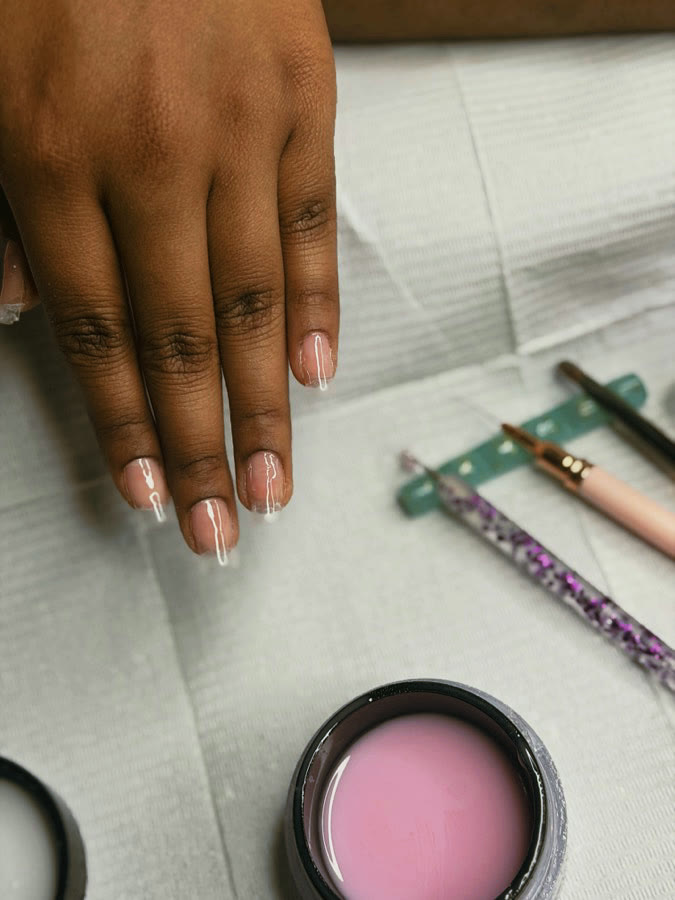
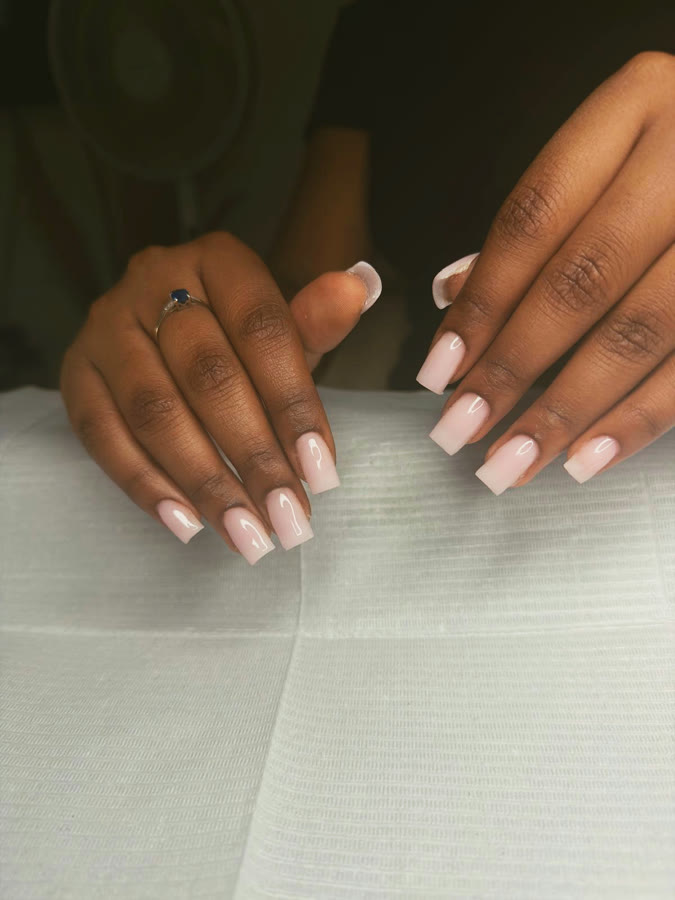
Avant/Après: ajoute le vrai résultat final, retag l'étape gel
- Étape "Résultat final" (IMG_3850) retaguée "Avant pose gel" et
  ajout d'une 5e étape avec le vrai résultat final (IMG-20260903-WA0032)
- Galerie: remplace la photo du pot de gel (IMG_3850) par le
  résultat final deux mains, étalonné au filtre de la galerie
- Grille Avant/Après passée à 5 colonnes (3 puis 2 en responsive)

diff --git a/content/site.ts b/content/site.ts
@@ -70,7 +70,7 @@ export const gallery = [
     src: "/assets/gallery-1.jpg",
     alt: "Pose gel nude avec nail art floral et liseré rouge",
   },
-  { src: "/assets/gallery-2.jpg", alt: "Pose gel nude glossy, finition naturelle" },
+  { src: "/assets/gallery-2.jpg", alt: "Pose gel nude glossy sur ongles longs carrés, finition naturelle" },
   { src: "/assets/gallery-4.jpg", alt: "Pose gel french manucure classique" },
   { src: "/assets/gallery-5.jpg", alt: "Pose gel colorée avec nail art mixte" },
 ];
@@ -162,8 +162,13 @@ export const beforeAfter = {
     },
     {
       src: "/assets/etape-4.jpg",
+      tag: "Avant pose gel",
+      alt: "Capsules sculptées et mises en forme, avant la pose du gel",
+    },
+    {
+      src: "/assets/etape-5.jpg",
       tag: "Résultat final",
-      alt: "Résultat final : pose gel nude glossy, finition naturelle",
+      alt: "Résultat final : pose gel nude glossy sur les deux mains, finition naturelle",
     },
   ],
   caption: "Pose gel nude & naturel — de l'ongle naturel au résultat final, étape par étape.",

diff --git a/app/globals.css b/app/globals.css
@@ -432,7 +432,7 @@ section { padding: clamp(3.5rem, 8vw, 7rem) clamp(1.5rem, 6vw, 5rem); }
 
 /* ---------- Before / After ---------- */
 .ba { background: var(--card); }
-.ba-frame { display: grid; grid-template-columns: repeat(4, 1fr); gap: 1rem; }
+.ba-frame { display: grid; grid-template-columns: repeat(5, 1fr); gap: 0.9rem; }
 .ba-step {
   position: relative; aspect-ratio: 3 / 4;
   border-radius: 20px; overflow: hidden;
@@ -456,8 +456,11 @@ section { padding: clamp(3.5rem, 8vw, 7rem) clamp(1.5rem, 6vw, 5rem); }
   text-align: center;
 }
 .ba-caption { text-align: center; margin-top: 1.4rem; color: var(--terre); font-size: 0.95rem; }
-@media (max-width: 820px) {
-  .ba-frame { grid-template-columns: 1fr 1fr; gap: 0.8rem; }
+@media (max-width: 980px) {
+  .ba-frame { grid-template-columns: repeat(3, 1fr); gap: 0.8rem; }
+}
+@media (max-width: 560px) {
+  .ba-frame { grid-template-columns: repeat(2, 1fr); }
 }
 
 /* ---------- Testimonials ---------- */
